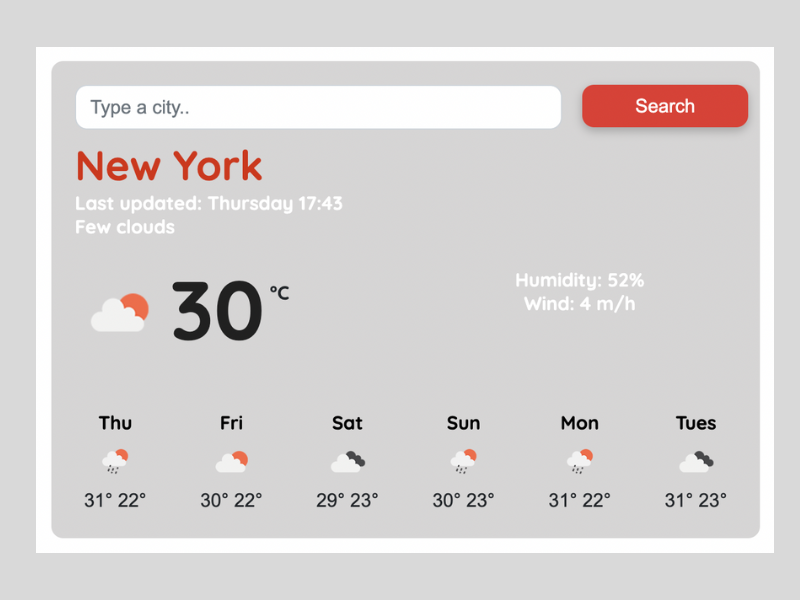
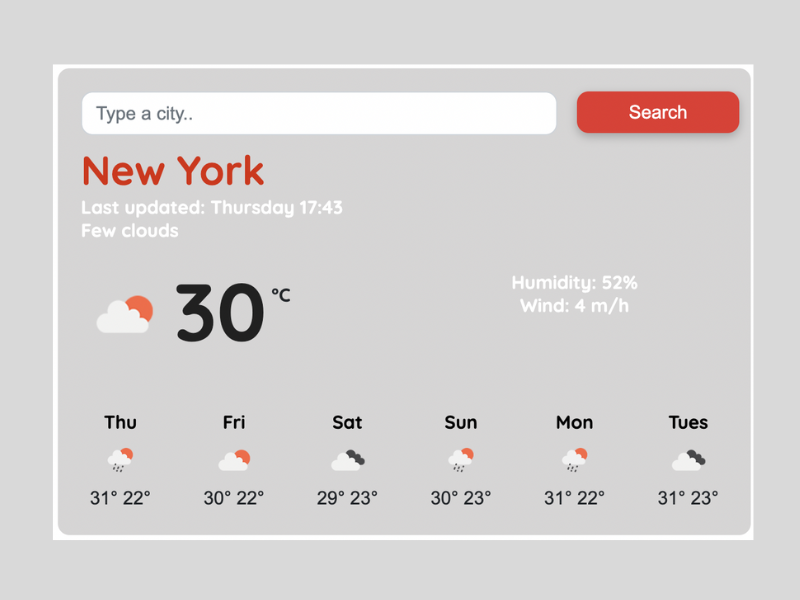
Updated home page with projects

diff --git a/index.html b/index.html
@@ -100,6 +100,16 @@
       <img src="images/tropical.png" alt="weather app" class="img-fluid mt-5 shadow-lg p-1 mb-3 rounded" />
     </div>
     </div>
+  <div class="row">
+    <div class="col one p-5" >
+      <img src="images/grey_weather.png" alt="modern weather app" class="img-fluid mt-5 shadow-lg p-1 mb-3 rounded" />
+    </div>
+    <div class="col two p-5 text-start">
+      <h2 class="headings mt-5 mb-5"><strong>Modern Weather App</strong></h2>
+      <p>This is a re-styled weather app I worked on using a modern clean theme.  I used Html, CSS and Javascript to complete this project.  I gained an understanding of how APis work to source live data from the internet in order for this app to function.</p>
+      <section class="lplink-position"><a href="https://stately-starlight-91baf4.netlify.app/" class="link">Link to Weather App</a></section>
+    </div>
+  </div>
 
 
 
